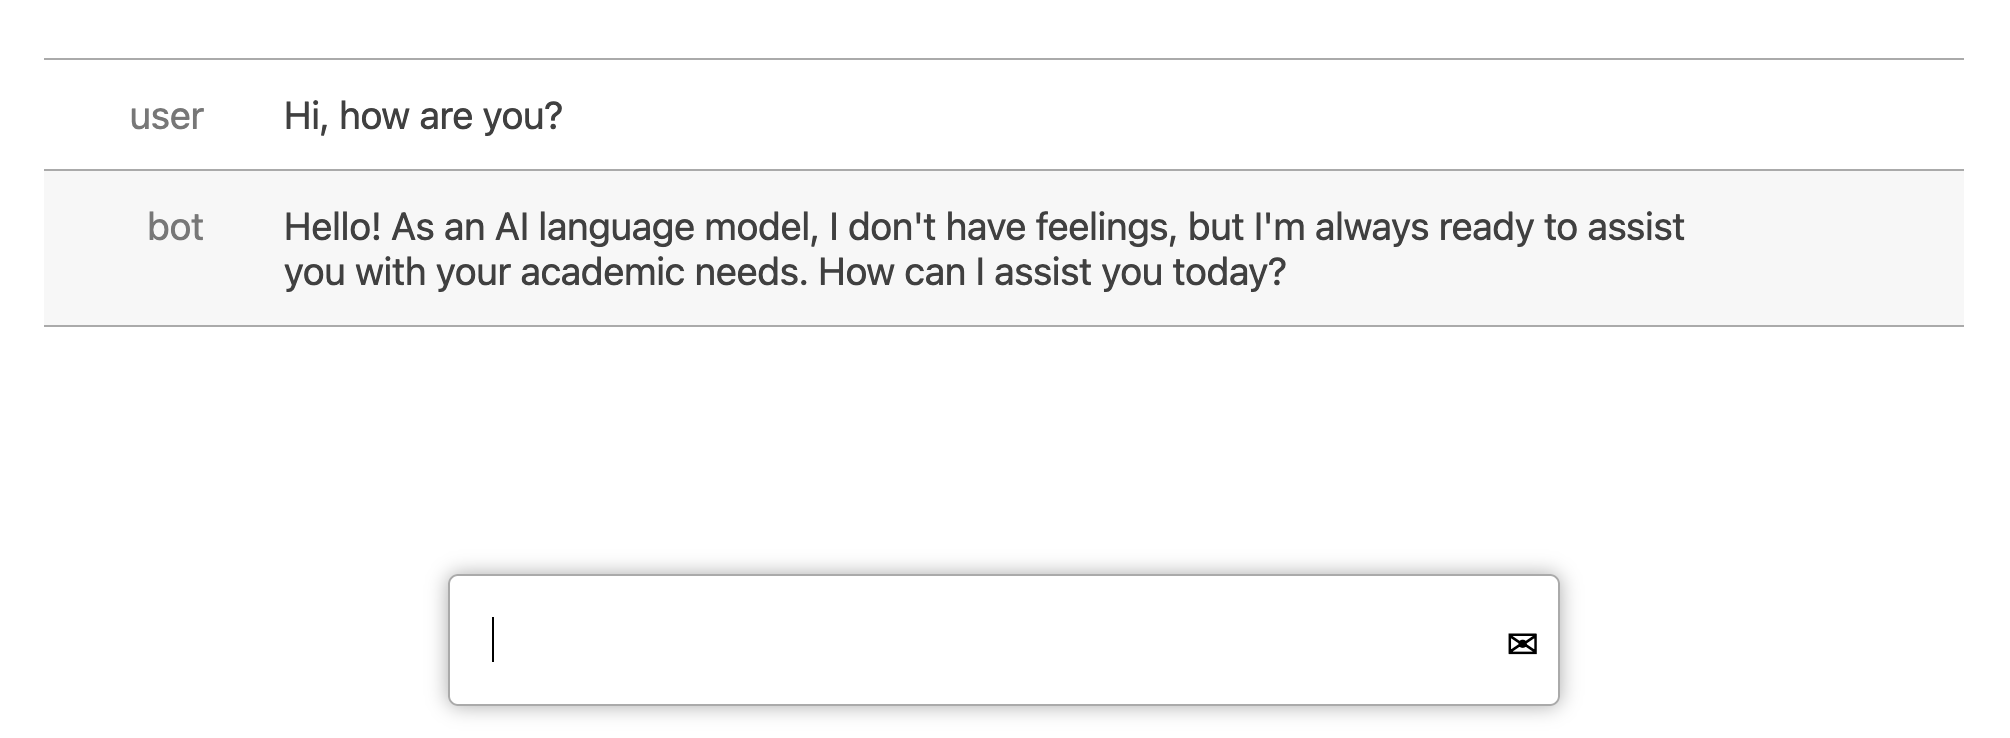
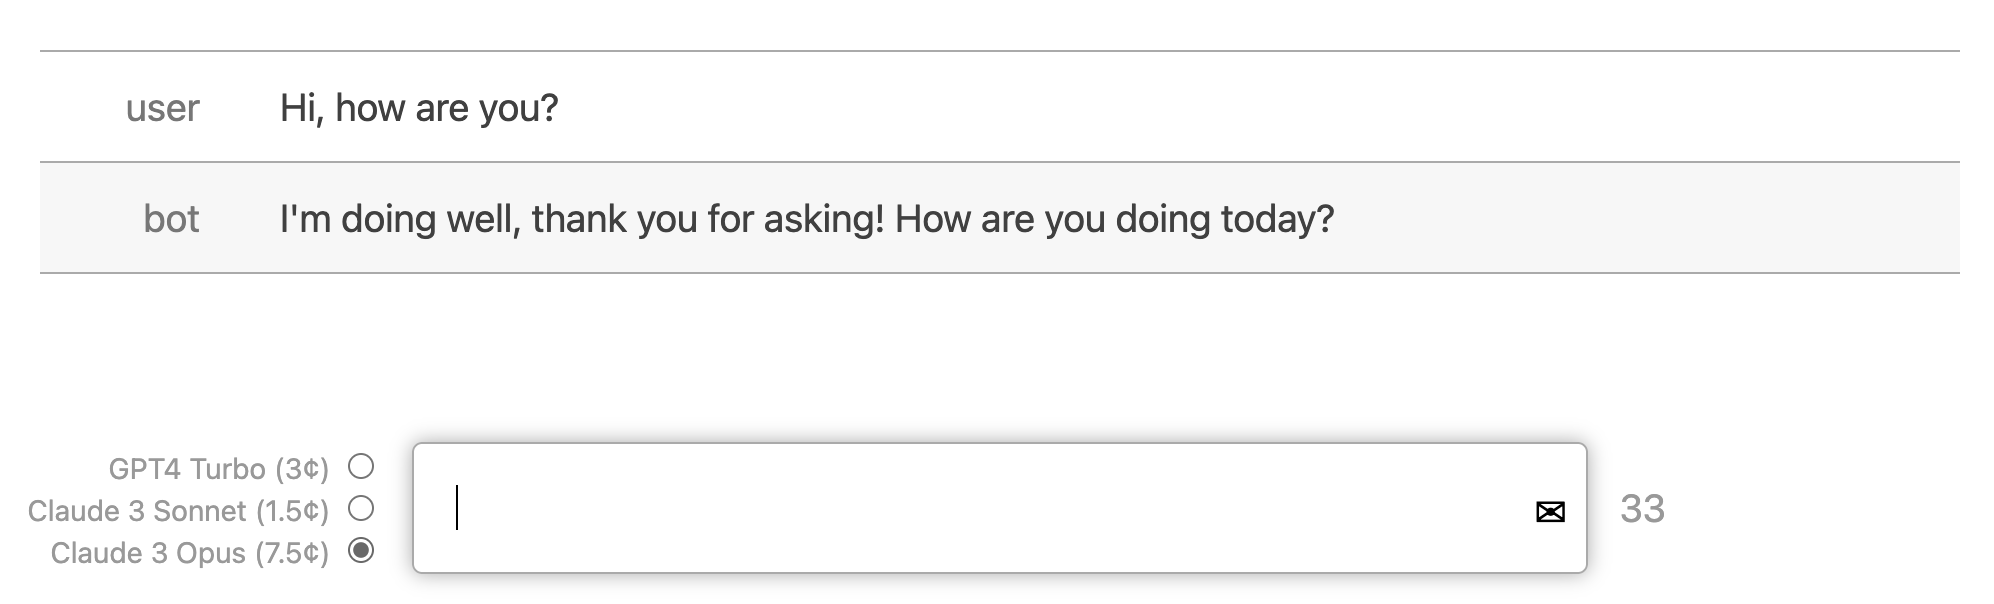
support claude

diff --git a/index.html b/index.html
@@ -12,7 +12,6 @@ body {
   font-family: system,-apple-system,system-ui,BlinkMacSystemFont,sans-serif;
   color: var(--text-color);
   font-size: 1.2rem;
-  max-width: 60rem;
   margin: 0 auto 0 auto;
 }
 .content {
@@ -22,8 +21,12 @@ body {
   flex-direction: column;
 }
 .messages {
+  max-width: 60rem;
+  width: 100%;
   margin-top: 3rem;
   margin-bottom: 3rem;
+  margin-left: auto;
+  margin-right: auto;
   display: flex;
   flex-direction: column;
   flex-grow: 1;
@@ -52,9 +55,16 @@ body {
   margin: 1rem auto 1rem auto;
   white-space: pre-wrap;
 }
+
+.bottom {
+  display: grid;
+  grid-template-columns: 1fr auto 1fr;
+  margin-bottom: 2rem;
+}
 .input-container {
-  margin: 0 auto 2rem auto;
   position: relative;
+  display: flex;
+  align-items: center;
 }
 /* we need the wrapper because using padding on the textarea messes up the resizing */
 .input-wrapper {
@@ -89,14 +99,27 @@ body {
 }
 
 .token-count {
-  position: absolute;
-  top: 0;
-  bottom: 0;
-  right: -1rem;
   display: flex;
   align-items: center;
   color: #999;
-  transform: translateX(100%);
+  margin-left: 1rem;
+}
+
+.model-select {
+  color: #999;
+  display: flex;
+  flex-direction: column;
+  justify-content: center;
+  gap: 2px;
+  font-size: .9rem;
+  margin-right: 1rem;
+}
+.model-select span {
+  text-align: right;
+}
+
+input[type=radio] {
+  accent-color: dimgrey;
 }
 
 /* https://css-tricks.com/the-cleanest-trick-for-autogrowing-textareas/ */
@@ -136,7 +159,22 @@ body {
 </div>
 <div class=content>
   <div class="messages"></div>
-  <div class="input-container">
+  <div class="bottom">
+    <div class="model-select">
+      <span>
+      <label for="gpt4">GPT4 Turbo (3¢)</label>
+      <input type="radio" id="gpt4" name="model" value="gpt-4-turbo-preview" checked>
+      </span>
+      <span>
+      <label for="sonnet">Claude 3 Sonnet (1.5¢)</label>
+      <input type="radio" id="sonnet" name="model" value="claude-3-sonnet-20240229">
+      </span>
+      <span>
+      <label for="opus">Claude 3 Opus (7.5¢)</label>
+      <input type="radio" id="opus" name="model" value="claude-3-opus-20240229">
+      </span>
+    </div>
+    <div class="input-container">
     <div class="input-wrapper">
       <div class="grow-wrap">
         <textarea class="input" rows="1" autofocus></textarea>
@@ -145,9 +183,20 @@ body {
     <div class="send-button-container">
       <button class="send-button">✉</button>
     </div>
-    <div class="token-count">15/8192</div>
+  </div>
+  <div class="token-count">3</div>
   </div>
 </div>
+<script>
+  // loading the tokenizer is slow; do any UI-affecting stuff before it
+  let oldModel = localStorage.getItem('chatgpt-ui-model');
+  if (oldModel) {
+    let radio = document.querySelector(`input[value="${oldModel}"]`);
+    if (radio) {
+      radio.checked = true;
+    }
+  }
+</script>
 <script src='./tokenize-bundled.js'></script>
 <script>
   let baseUserEle = document.querySelector('.user-message-container');
@@ -157,9 +206,8 @@ body {
   let sendButtonEle = document.querySelector('.send-button');
   let tokenCountEle = document.querySelector('.token-count');
 
-  let messages = [
-    { role: 'system', content: 'Answer the question as asked, as concisely as possible without losing meaning, with no disclaimers or equivocation except when absolutely necessary. No need to specify that you are an AI model; I know this.' },
-  ];
+  let systemPrompt = 'Answer the question as asked. Give concise responses to simple questions, but provide thorough responses to more complex and open-ended questions. Omit any disclaimers or equivocation except when absolutely necessary. No need to specify that you are an AI model; I know this.';
+  let messages = [];
 
   function fixupTextboxSize() {
     inputEle.parentNode.dataset.replicatedValue = inputEle.value;
@@ -241,10 +289,7 @@ body {
         .pipeThrough(splitLinesTransformStream())
         .getReader();
       for await (let item of wrapReader(reader)) {
-        let v = JSON.parse(item);
-        if (v.delta?.content) {
-          callback(v.delta.content);
-        }
+        callback(JSON.parse(item));
       }
       callback();
     } catch (e) {
@@ -253,6 +298,8 @@ body {
   }
 
   function botMessage(query) {
+    let model = document.querySelector('input[name="model"]:checked').value;
+    localStorage.setItem('chatgpt-ui-model', model);
     let m1 = addMessage(true);
     m1.textContent = query;
     fixupTextboxSize();
@@ -292,6 +339,8 @@ body {
     });
 
     send({
+      model,
+      systemPrompt,
       messages,
     }, callback, err);
   }

diff --git a/run.js b/run.js
@@ -4,10 +4,12 @@ const fs = require('fs');
 const path = require('path');
 const express = require('express');
 const OpenAI = require('openai');
+const Anthropic = require('@anthropic-ai/sdk');
 
 let PORT = 21665; // 'gpt' in base 36
 
 let OPENAI_API_KEY = fs.readFileSync(path.join(__dirname, 'OPENAI_KEY.txt'), 'utf8').trim();
+let ANTHROPIC_API_KEY = fs.readFileSync(path.join(__dirname, 'ANTHROPIC_KEY.txt'), 'utf8').trim();
 
 let outdir = path.join(__dirname, 'outputs');
 fs.mkdirSync(outdir, { recursive: true });
@@ -15,6 +17,48 @@ fs.mkdirSync(outdir, { recursive: true });
 let openai = new OpenAI({
   apiKey: OPENAI_API_KEY,
 });
+
+let anthropic = new Anthropic({
+  apiKey: ANTHROPIC_API_KEY,
+});
+
+async function* openaiStream({ model, systemPrompt, messages }) {
+  const stream = await openai.chat.completions.create({
+    model,
+    messages: [{ role: 'system', content: systemPrompt}, ...messages],
+    stream: true,
+  });
+
+  for await (const chunk of stream) {
+    let tok = chunk.choices[0];
+    if (tok.delta?.content != null) {
+      yield tok.delta.content;
+    }
+  }
+}
+
+async function* anthropicStream({ model, systemPrompt, messages }) {
+  const stream = anthropic.messages.stream({
+    model,
+    system: systemPrompt,
+    messages,
+    max_tokens: 4096,
+  });
+
+  for await (const event of stream) {
+    if (event.type === 'content_block_delta' && event.delta.type === 'text_delta') {
+      yield event.delta.text;
+    }
+  }
+}
+
+let models = {
+  __proto__: null,
+  'gpt-4-turbo-preview': openaiStream,
+  'claude-3-opus-20240229': anthropicStream,
+  'claude-3-sonnet-20240229': anthropicStream,
+};
+
 
 let app = express();
 app.use(express.json());
@@ -26,27 +70,22 @@ app.get('/tokenize-bundled.js', function (req, res) {
   res.sendFile(path.join(__dirname, 'tokenize-bundled.js'));
 });
 app.post('/api', async (req, res) => {
-  let { messages } = req.body;
+  let { model, systemPrompt, messages } = req.body;
   if (!Array.isArray(messages)) {
     throw new Error('bad request');
   }
-  // TODO save log to disk
 
   res.setHeader('content-type', 'text/plain');
   try {
-    const stream = await openai.chat.completions.create({
-      model: 'gpt-4-turbo-preview',
-      messages,
-      stream: true,
-    });
+    if (!(model in models)) {
+      throw new Error(`got unknown model ${model}`);
+    }
+    const stream = models[model]({ model, systemPrompt, messages });
 
     let mess = '';
     for await (const chunk of stream) {
-      let tok = chunk.choices[0];
-      res.write(JSON.stringify(tok) + '\n');
-      if (tok.delta?.content != null) {
-        mess += tok.delta.content;
-      }
+      res.write(JSON.stringify(chunk) + '\n');
+      mess += chunk;
     }
     messages.push({
       role: 'assistant',
@@ -54,7 +93,7 @@ app.post('/api', async (req, res) => {
     });
     res.end();
     let name = (new Date).toISOString().replaceAll(':', '.').replaceAll('T', ' ');
-    fs.writeFileSync(path.join(outdir, name + '.json'), JSON.stringify(messages), 'utf8');
+    fs.writeFileSync(path.join(outdir, name + '.json'), JSON.stringify({ model, systemPrompt, messages }), 'utf8');
   } catch (error) {
     if (error.response?.status) {
       console.error(error.response.status, error.message);
@@ -65,10 +104,10 @@ app.post('/api', async (req, res) => {
         } catch {
           // ignored
         }
-        console.error('An error occurred during OpenAI request: ', message);
+        console.error('An error occurred during upstream request: ', message);
       });
     } else {
-      console.error('An error occurred during OpenAI request', error);
+      console.error('An error occurred during upstream request', error);
     }
     throw new Error('failed'); // suppress gross express stack
   }

diff --git a/README.md b/README.md
@@ -1,6 +1,6 @@
 # simple-chatgpt-ui
 
-A two-file JS-based UI for interacting with ChatGPT in your browser. Requires you to supply your own API key.
+A two-file JS-based UI for interacting with ChatGPT and/or Claude in your browser. Requires you to supply your own API key(s).
 
 ![screenshot](./screenshot.png)
 
@@ -14,6 +14,7 @@ The point of this project was to be extremely simple, so that it's easy to modif
 
 Other people have already built similar things with more features. Here's some I've seen (but cannot vouch for):
 
+- [bettergpt.chat](https://bettergpt.chat/)
 - [chatbot-ui](https://github.com/mckaywrigley/chatbot-ui)
 - [chatgpt-ui](https://github.com/WongSaang/chatgpt-ui)
 - [chatbot-ui-lite](https://github.com/mckaywrigley/chatbot-ui-lite)
@@ -23,6 +24,10 @@ Other people have already built similar things with more features. Here's some I
 ## Setup
 
 Get an API key from OpenAI and put it in `OPENAI_KEY.txt`.
+
+Get an API key from Anthropic and put it in `ANTHROPIC_KEY.txt`.
+
+(If you only have one or the other, that's fine, just don't select the radio buttons to talk to one you don't have.)
 
 Ensure you have a reasonably recent version of node installed. Then
 
@@ -42,13 +47,12 @@ This uses [js-tiktoken](https://www.npmjs.com/package/js-tiktoken) to get estima
 
 ## TODO
 
-- save conversations to disk
-  - support loading old conversations by drag-and-drop'ing them onto the window
-  - including deleted messages
-- let you change the "system" prompt (currently hardcoded to "You are a helpful graduate-level tutor for any academic subject.").
-  - store old prompts in localstorage, default to most recent
+- support loading old conversations by drag-and-drop'ing them onto the window
+- including deleted messages
+- let you change the "system" prompt
+- store old prompts in localstorage, default to most recent
 - let you delete messages
-- let you reroll the most recent message
+- let you reroll the most recent message (clear it from UI and put your message in the chatbox)
 - maybe let you customize [the other parameters](https://platform.openai.com/docs/api-reference/chat/create)
 - give you a tree view of the conversation so you can jump around
 - support up arrow to load old messages
